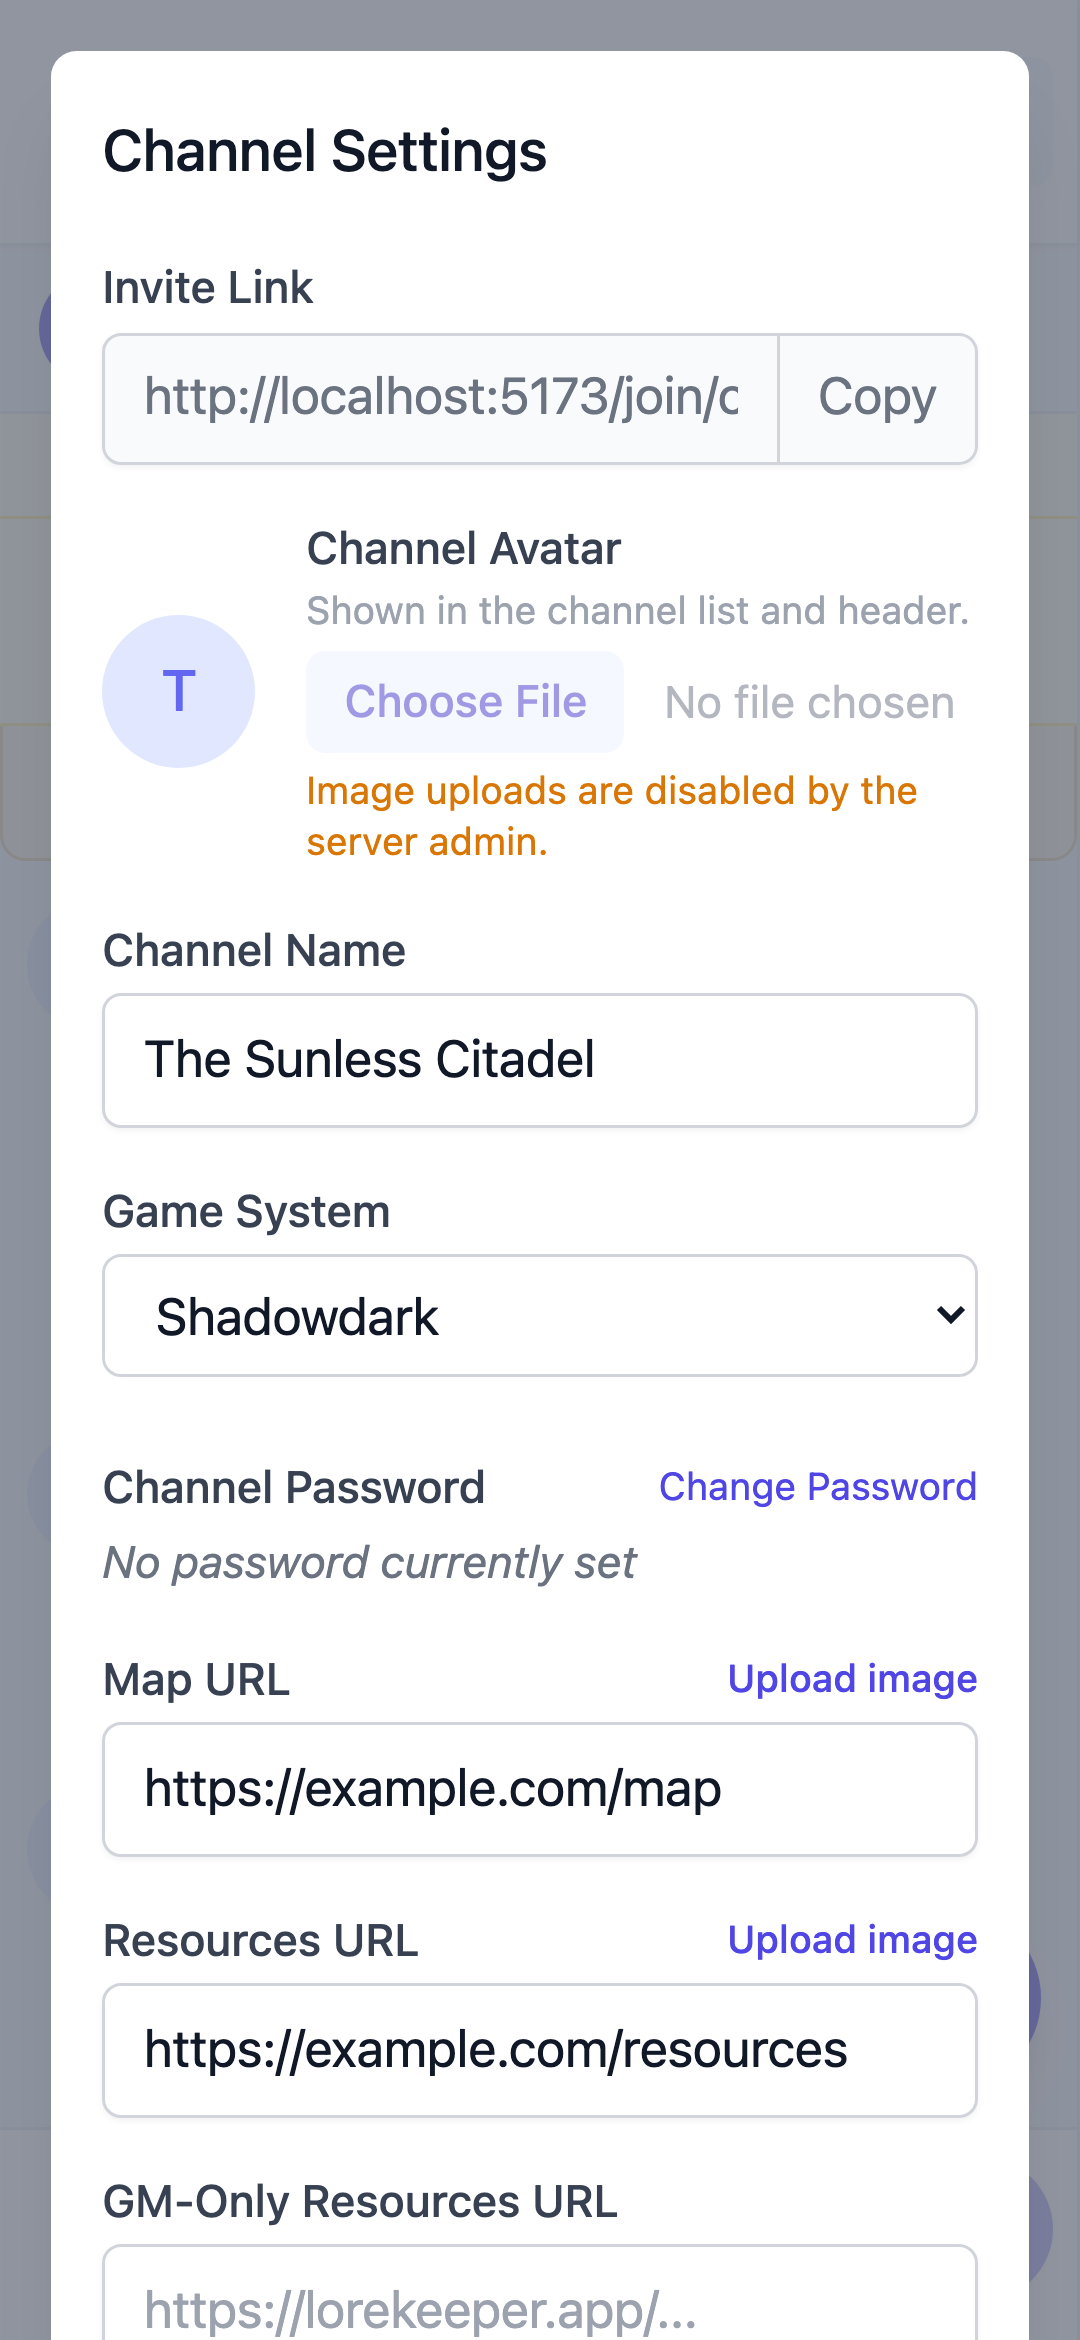
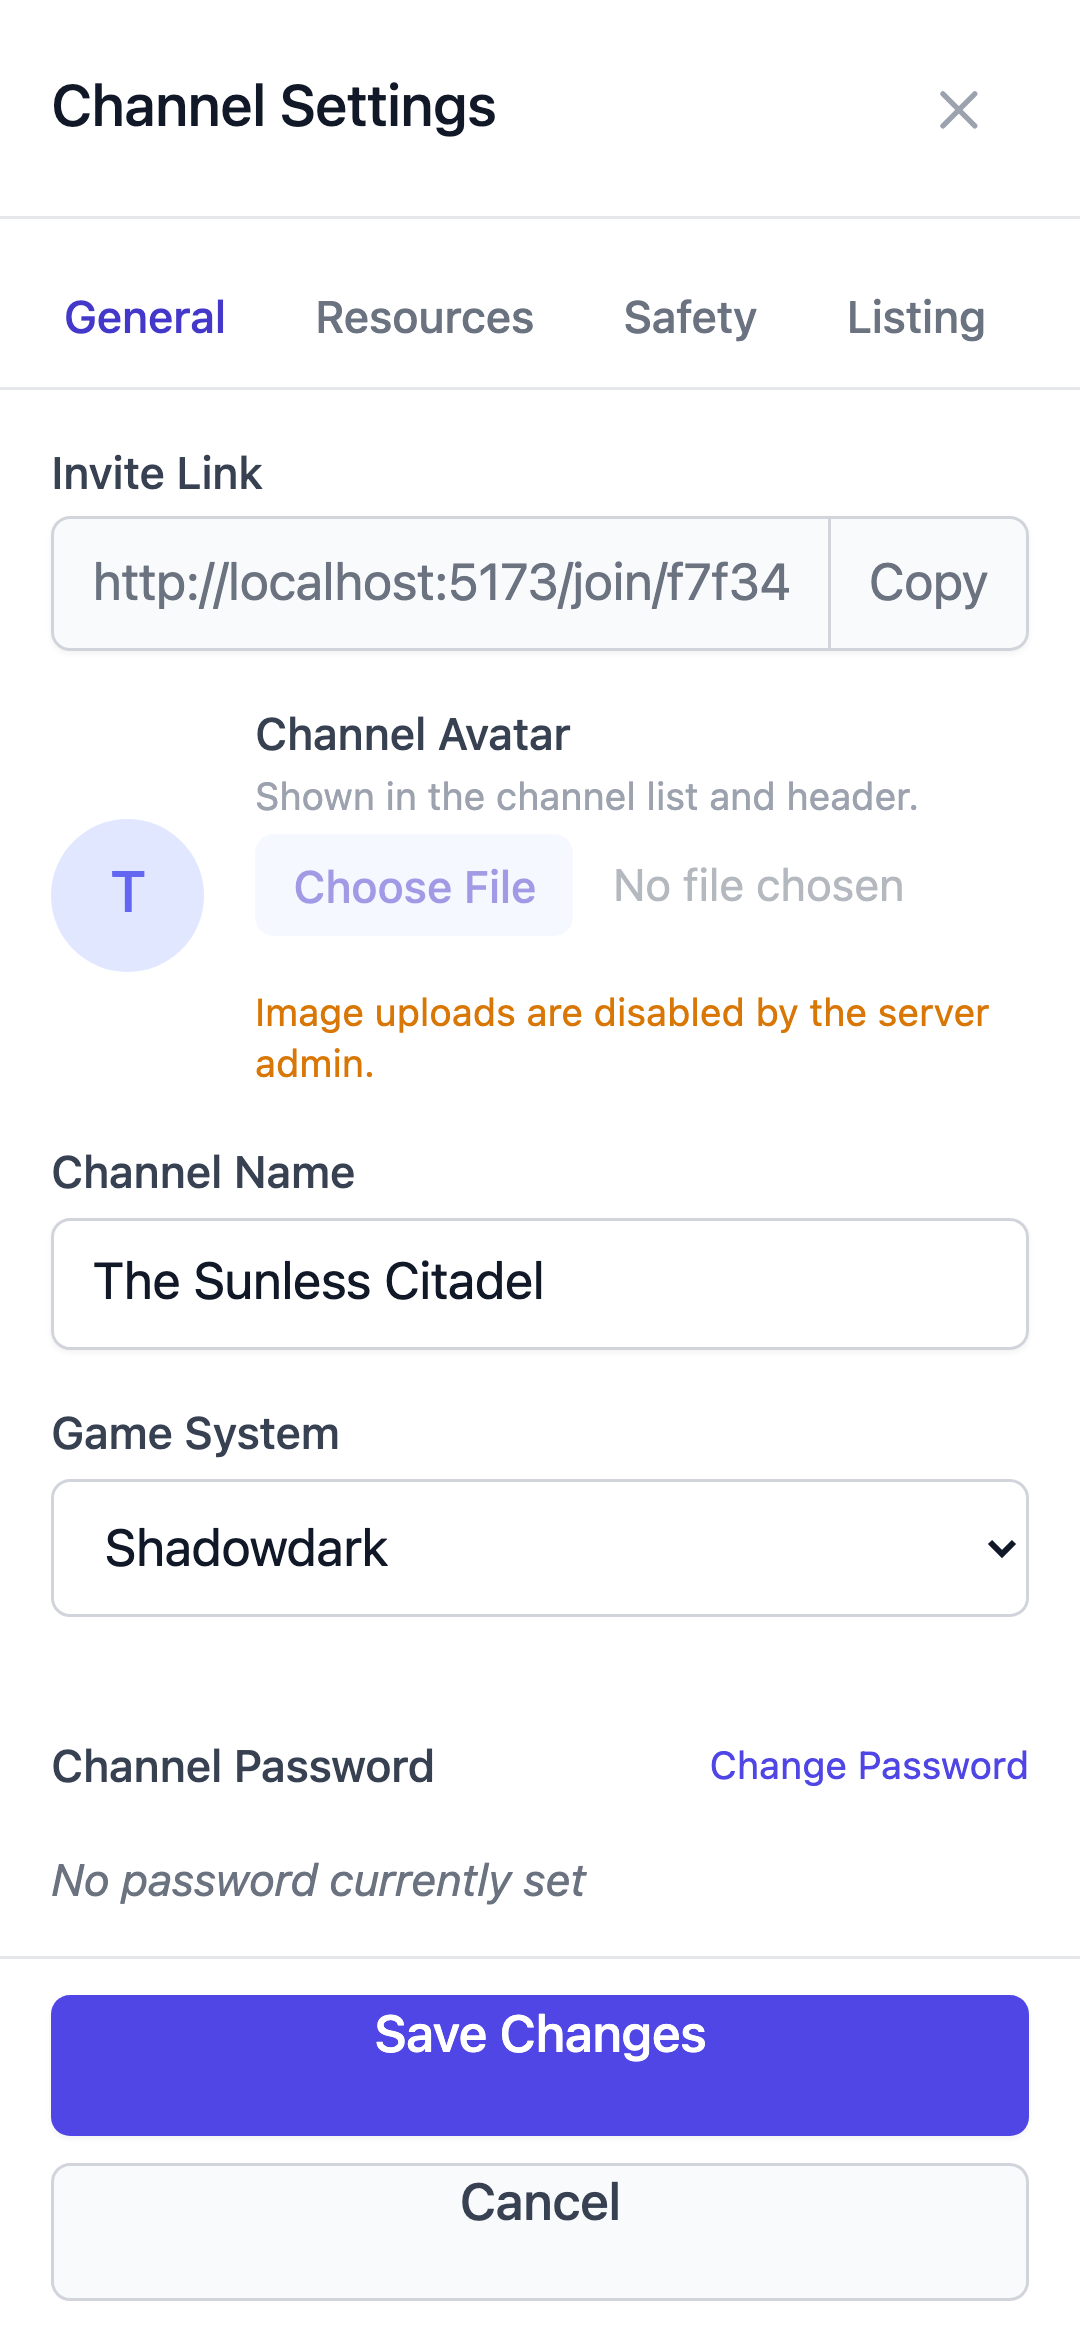
docs: channel settings tabs, dirty guard, regenerated help shot

diff --git a/docs/FEATURES.md b/docs/FEATURES.md
@@ -56,9 +56,9 @@
 - **Lobby** has two tabs: **My Games** (the private channels you've joined) and **Discover** (games whose GMs listed them as looking for players). A user with no channels lands on Discover
 - **Discover tab** — cards showing each listed game's name, game system, GM, member count, last activity, and description (with links the GM wrote made tappable); a **Search games** box matching name, description, and game system server-side; and **Load more** pagination. Tapping a card opens the full listing (description, what the GM expects, GM, activity) in a bottom sheet, which offers **Apply to join** — character name (20 characters) plus an optional answer to the GM's prompt — or, once applied, a pending state with **Withdraw application**, or **Open channel** for members. A listing can also be **reported** to the server admins from the sheet
 - **Listed games are application-only** — there is no instant join. The GM approves or rejects every application, and a listed channel cannot be entered via an invite link or password; only GM approval grants membership
-- **Shareable public game pages** — every listed game has a plain link (`/game/<id>`) a GM can post on Reddit, a forum, or Discord. Anyone who opens it — signed in or not — reads the game name, system, description, what the GM expects, the application question, and who runs it, with **Sign in to apply** for visitors. A signed-in visitor gets the same apply / pending / member states as the Discover sheet. GMs copy the link from **Channel Settings → Discovery** or the listing's **Copy public link**, and the lobby's paste-a-link field accepts it. The page is not search-engine indexed; the public, indexable surface stays `/directory`. A game switched back to private, archived, taken down, or reached through a wrong id show a plain "this game isn't listed" page and never reveal that the channel exists
+- **Shareable public game pages** — every listed game has a plain link (`/game/<id>`) a GM can post on Reddit, a forum, or Discord. Anyone who opens it — signed in or not — reads the game name, system, description, what the GM expects, the application question, and who runs it, with **Sign in to apply** for visitors. A signed-in visitor gets the same apply / pending / member states as the Discover sheet. GMs copy the link from **Channel Settings → Listing** or the listing's **Copy public link**, and the lobby's paste-a-link field accepts it. The page is not search-engine indexed; the public, indexable surface stays `/directory`. A game switched back to private, archived, taken down, or reached through a wrong id show a plain "this game isn't listed" page and never reveal that the channel exists
 - **Application decisions land in the lobby** — a decided application the player has not yet acknowledged shows a notice above the lobby tabs: **You're in — (game)** with a link into the channel when approved, or a note that the game declined, each with **Dismiss**. The notice is acknowledged server-side, so a dismissal sticks across reloads and devices; push notifications cover the same two events for players who have them on
-- **Approve or reject from the channel** *(for GMs)* — **Channel Settings → Join requests** lists everyone waiting with their character name, their answer, and when they applied, with **Approve** and **Reject** (the buttons stay level with a long answer). A count badge shows on the channel's Lobby row, its **Settings** row, and the channel's menu button, so a pending application is visible before the sidebar is opened
+- **Approve or reject from the channel** *(for GMs)* — **Channel Settings → Listing** lists everyone waiting with their character name, their answer, and when they applied, with **Approve** and **Reject** (the buttons stay level with a long answer). A count badge shows on the channel's Lobby row, its **Settings** row, and the channel's menu button, so a pending application is visible before the sidebar is opened
 - **Lobby row** — the preview is the last message **you** can see, read or not (WhatsApp/Telegram behavior): whispers only for their sender, recipient and the GM, restricted-room messages only for players who can open that room, with the room name leading the preview (`OOC · Hero: …`). The unread count is the only thing that tracks new messages. The preview leads with the sender (NPC name, else the sender's character name, else their display name), and a small amber **GM** chip sits inline next to the channel name when you run it
 - **Channel avatar** — GMs can upload an image avatar (WhatsApp/Signal-style) from Channel Settings; it shows in the channel list and the channel header. Images are downscaled client-side to ~512 px JPEG before upload into Supabase Storage, and uploads require the server admin to enable image uploads (off by default)
 - **Image uploads** — when enabled, any user can upload a global profile picture from Profile Settings, and GMs can upload images into messages (inserted as markdown at the cursor), as the channel Map or Resources (Channel Settings), or as an NPC portrait. All uploads are downscaled client-side (JPEG) before hitting Supabase Storage, capped by the admin's size limit; profile pictures are stored under `{user_id}/profile/{uuid}.jpg` and channel uploads are stored under `{channel_id}/{kind}/{uuid}.jpg`. Each upload records the image's pixel dimensions in the object's metadata, so message images reserve their exact box before they load and the conversation never jumps as pictures arrive. On desktop, GMs can also **drag and drop** one or more image files onto the message box (same upload pipeline, one markdown line per file at the cursor; non-image files are rejected inline)
@@ -70,7 +70,7 @@
 - **App menu drawer** — the main app menu (Profile, Archived Channels, Help, etc.) slides in as a right-side drawer, opened from the header ☰ button or by swiping in from the right screen edge on touch devices; the channel sidebar supports the same edge swipe on mobile. Swiping back out (to the right) closes the open drawer or sidebar. On small screens the header **Search** and **Dark mode** controls fold into the drawer so they never crowd the app title
 - **Empty lobby onboarding** — with no channels joined, the lobby opens on Discover; the My Games tab also explains the invite-only model and offers both paths inline: a "Create a channel" button and a "Paste an invite link" field (paste a full invite URL to jump to the join screen, with a clear error for anything else)
 - Channels are either **private** (joined via invite link, optionally with a password) or **listed** (apply-only, vetted by the GM)
-- **Create a channel private or listed in one step** — the create form carries the same **Private — invite link only** / **Listed — apply to join** choice as Channel Settings → Discovery, with the description, expectations, and optional application prompt (capped at input to match the server) when listed. The channel, its listing, and the GM's membership commit in one transaction
+- **Create a channel private or listed in one step** — the create form carries the same **Private — invite link only** / **Listed — apply to join** choice as Channel Settings → Listing, with the description, expectations, and optional application prompt (capped at input to match the server) when listed. The channel, its listing, and the GM's membership commit in one transaction
 - Optional **password** to join a private channel (joining is instant; a listed channel has no password and no instant join)
 - GM can **kick** (remove) or **block** a user (immediately revokes channel access, prevents re-entry, and can be undone via **Unblock**)
 - **System messages** announce member joins, leaves, kicks, blocks, and unblocks in the channel — each is written together with the member change in a single atomic step, so the announcement and the action can never fall out of sync
@@ -230,7 +230,7 @@
 
 ## Safety Tools (Lines & Veils / X-Card)
 
-- **Lines & Veils** — GM-editable persistent text fields (up to 2,000 characters each; collapsible "Safety Tools" section in Channel Settings) listing hard limits (Lines) and off-screen topics (Veils); visible to every member via the **Safety Tools** sidebar item
+- **Lines & Veils** — GM-editable persistent text fields (up to 2,000 characters each; **Safety** tab in Channel Settings) listing hard limits (Lines) and off-screen topics (Veils); visible to every member via the **Safety Tools** sidebar item
 - **Safety Tools URL** — optional external link (up to 500 characters; e.g. a shared Google Doc), configured by the GM in settings and shown as a **Safety Tools Doc** menu item in the sidebar for all members (like the other URL fields)
 - **X-Card** — a red card-with-X button in the message composer flags a scene to the GM **anonymously** (no identity stored). The GM sees an instant in-app alert banner; the presser gets a private confirmation toast. Flags raised while the GM is away still show when they open the channel (no matter how long the GM was gone — every unhandled flag stays pending until handled), and dismissing the banner persists, so it survives reloads. Dismissal syncs live across the GM's tabs and devices. When the GM dismisses the alert, everyone in the channel sees a short note that the flagged scene has been resolved — no names, just an all-clear.
 

diff --git a/docs/help/channel/gm-tools.md b/docs/help/channel/gm-tools.md
@@ -7,13 +7,14 @@ Everything the **GM** can do to run and manage a channel.
 
 ## Channel settings
 
-Open **Settings** from the channel sidebar to configure:
+Open **Settings** from the channel sidebar. The settings are grouped into four tabs, with **Save Changes** always at the bottom of the window:
 
-- Channel name (up to 80 characters) and game system
-- **Discovery** — list the channel so players can find it and apply (see below)
-- **Channel avatar** — upload an image shown in the channel list and header (requires the server admin to enable image uploads)
-- Map, resources, and GM resources URLs (up to 500 characters) — the Map and Resources fields also offer **Upload image** buttons that store the image instead of pasting an external link
-- Safety Tools Doc URL (up to 500 characters) and Lines & Veils (up to 2,000 characters each)
+- **General** — channel name (up to 80 characters), game system, password, avatar, the invite link, and **Advanced Actions** (export the chat, archive the channel)
+- **Resources** — Map, Resources, and GM resources URLs (up to 500 characters); the Map and Resources fields also offer **Upload image** buttons that store the image instead of pasting an external link
+- **Safety** — Safety Tools Doc URL (up to 500 characters) and Lines & Veils (up to 2,000 characters each)
+- **Listing** — list the channel so players can find it and apply (see below)
+
+A dot next to a tab name marks settings on that tab you haven't saved yet. Closing the window with unsaved changes — with Escape, the × button, tapping outside, or **Cancel** — asks before discarding them, so an accidental close never loses an edit. Saving leaves the window open on the same tab with your values in place.
 
 ## Managing members
 
@@ -49,7 +50,7 @@ The GM can **archive** a channel, removing it from the main lobby. Archived chan
 
 ## Listing your game for new players
 
-Channel **Settings** has a **Discovery** section. A channel is either:
+The **Listing** tab of Channel **Settings** sets how the channel takes new players. A channel is either:
 
 - **Private — invite link only** (the default), or
 - **Listed — apply to join**, which puts it in the lobby's **Discover** tab and on the public [/directory](/directory) page, where anyone can read its description.
@@ -60,13 +61,13 @@ Listing a channel is public: the description and what you expect are shown to an
 
 ### Sharing your game
 
-A listed channel has a **public game link** you can post anywhere — Reddit, a forum, Discord. Copy it from the **Public game link** field in **Channel Settings → Discovery**, or with **Copy public link** on the listing itself. Anyone who opens it, signed in or not, reads the game's name, system, description, what you expect, and your application question, plus who runs it; a signed-out visitor is invited to sign in and apply, and a signed-in player gets the usual **Apply to join** form. Messages and player details never appear on it, and the page is not search-engine indexed — the [/directory](/directory) page is the public, searchable list. If you switch back to **Private** or a server admin takes the listing down, the link stops working and shows a plain "this game isn't listed" page.
+A listed channel has a **public game link** you can post anywhere — Reddit, a forum, Discord. Copy it from the **Public game link** field in **Channel Settings → Listing**, or with **Copy public link** on the listing itself. Anyone who opens it, signed in or not, reads the game's name, system, description, what you expect, and your application question, plus who runs it; a signed-out visitor is invited to sign in and apply, and a signed-in player gets the usual **Apply to join** form. Messages and player details never appear on it, and the page is not search-engine indexed — the [/directory](/directory) page is the public, searchable list. If you switch back to **Private** or a server admin takes the listing down, the link stops working and shows a plain "this game isn't listed" page.
 
 Web links you paste into the description or what you expect become tappable wherever the listing appears — players can open them in a new tab. Use full addresses (`https://example.com` or `www.example.com`); plain words are left alone.
 
 ## Join requests
 
-Below the Discovery section, **Join requests (N)** lists everyone waiting on you — their character name, their answer, and when they applied. **Approve** adds them as a member straight away (the name they gave becomes their character name) and **Reject** closes the application; either way they're notified. There's a count badge on the channel's **Settings** button and on the channel's row in the lobby, so a new application is visible without opening the channel.
+Below the listing fields, **Join requests (N)** lists everyone waiting on you — their character name, their answer, and when they applied. **Approve** adds them as a member straight away (the name they gave becomes their character name) and **Reject** closes the application; either way they're notified. There's a count badge on the channel's **Settings** button and on the channel's row in the lobby, so a new application is visible without opening the channel.
 
 Applications are one at a time: a player can't apply twice while a decision is pending, and the same applicant can't be approved twice.
 

diff --git a/docs/CHANGELOG.md b/docs/CHANGELOG.md
@@ -2,6 +2,18 @@
 
 All notable changes to this project are documented in this file.
 
+## 2026-11-02
+
+### Changed
+
+- **Channel settings are split into tabs** — **General**, **Resources**, **Safety**, and **Listing**, with **Save Changes** always at the bottom of the window instead of below a long scroll. On a phone the settings fill the screen; on a computer the window is wider and pairs related fields side by side. A dot next to a tab name marks settings you've edited but not saved yet, so you can see what still needs saving.
+- **Closing with unsaved changes asks first** — Escape, the × button, tapping outside the window, and **Cancel** all ask **Discard changes?** before throwing an edit away. Choosing Cancel on that prompt keeps everything you typed and leaves the settings open.
+- **Saving leaves you where you are** — a save confirms with a message, keeps the window open on the same tab, and leaves your values in place so you can carry on adjusting without reopening settings. If a field can't be saved (for example a link that doesn't start with `http://` or `https://`), the window moves to that tab and shows the problem there.
+
+### Fixed
+
+- **Uploading a resources image shows the right progress** — the Resources upload button now reports its own upload rather than the map's, so it no longer shows a pending label for the wrong field.
+
 ## 2026-10-28
 
 ### Fixed

diff --git a/docs/help/general/safety-tools.md b/docs/help/general/safety-tools.md
@@ -10,7 +10,7 @@ Safety tools help everyone at the table stay comfortable.
 - **Lines** are the hard limits the group agrees never to cross.
 - **Veils** are topics that can come up, but happen "off-screen".
 
-The GM edits Lines & Veils in **Channel Settings**. Each field supports up to 2,000 characters. Every member can view them from the **Safety Tools** item in the channel sidebar.
+The GM edits Lines & Veils in the **Safety** tab of **Channel Settings**. Each field supports up to 2,000 characters. Every member can view them from the **Safety Tools** item in the channel sidebar.
 
 ## Safety Tools Doc
 

diff --git a/docs/help/general/lobby.md b/docs/help/general/lobby.md
@@ -43,7 +43,7 @@ Choose how the channel starts:
 - **Private — invite link only** — the default. Only people you send the invite link to can join.
 - **Listed — apply to join** — the game appears in Discover and on the public directory, with the **Description** and **What you expect** you write there, plus an optional question applicants answer. You approve or reject every application.
 
-You can move a channel between the two later from **Channel Settings → Discovery**.
+You can move a channel between the two later from **Channel Settings → Listing**.
 
 ## Joining a private channel
 
